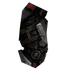
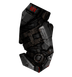
大腿按图加宽(33→36)/真踝关节:靴子独立foot部件+脚掌压平逻辑(站0.9走随摆蹲前脚全平)/跪姿v4紧凑版(前腿水平膝+脚平踩身下,后膝近地靴尖点地)/髋距±5.5贴近原图

diff --git a/src/entities/CharacterRig.js b/src/entities/CharacterRig.js
@@ -78,11 +78,11 @@ export class CharacterRig {
     //   走出±28px 的水平跨步——腿始终是弯的下蹲形态,但脚是前后迈而非上下抖。
     if (cr > 0) {
       const mb = Math.min(1, gait * 1.3)
-      this._crouchDrop = 25 // 蹲行与跪姿同一低度(母本v3:髋高47-25=22≈大腿19.5,后膝可触地)
+      this._crouchDrop = 22 // 跪蹲低度(髋高47-22=25;前膝不过肩、后膝近地)
       this._crouchPitch = L(10, 16, mb)
       // 跪姿(静止):真军姿单膝跪=前膝抬高(高于髋,大腿-108°)、小腿完全垂直(sF=108→总角0°)、脚掌平踩,
       // 后膝触地小腿后折——素体腿长(21.5/28.5)下几何恰好闭合
-      let tF = -108, sF = 83, tB = 10, sB = 80
+      let tF = -90, sF = 130, tB = 15, sB = 90
       if (mb > 0.01) {
         // 低位潜行(双骨 IK):双脚钉住地面沿水平 ±24px 往返(迈步腿微抬 5px),
         // 由 IK 反解大小腿角——前伸腿伸展、收回腿深折于臀下,腿形反差即"蹲着走"
@@ -104,6 +104,15 @@ export class CharacterRig {
     P.thigh_b.localAngle = thighB
     P.shin_f.localAngle = shinF
     P.shin_b.localAngle = shinB
+    if (P.foot_f) {
+      // 脚掌压平系数:站立0.9(原图靴子平踩)/走路随摆一半/蹲姿前脚全平、后脚随小腿折起
+      const torsoPitch = this.lean + cr * (this._crouchPitch ?? 10) * DEG
+      const flatWalk = 0.9 - gait * 0.45
+      const fF = L(flatWalk, 1, cr)
+      const fB = L(flatWalk, 0.15, cr)
+      P.foot_f.localAngle = -(torsoPitch + thighF + shinF) * fF
+      P.foot_b.localAngle = -(torsoPitch + thighB + shinB) * fB
+    }
     if (P.arm_back && !P.arm_back.def.aim) {
       P.arm_back.localAngle = 55 * DEG + Math.sin(ph + Math.PI) * 14 * DEG * gait * (1 - cr * 0.7)
     }

diff --git a/src/scenes/BootScene.js b/src/scenes/BootScene.js
@@ -2,7 +2,7 @@ import Phaser from 'phaser'
 
 const IMAGES = [
   'player_head', 'player_torso', 'player_arm_upper', 'player_armgun', 'player_pauldron',
-  'player_thigh_f', 'player_shin_f', 'player_thigh_b', 'player_shin_b',
+  'player_thigh_f', 'player_shin_f', 'player_foot_f', 'player_thigh_b', 'player_shin_b', 'player_foot_b',
   'robot_head', 'robot_torso', 'robot_arm_aim', 'robot_arm_back', 'robot_thigh', 'robot_shin',
   'wall_tile',
 ]

diff --git a/docs/开发日志.md b/docs/开发日志.md
@@ -2,6 +2,13 @@
 
 > 倒序:最新的在上面。每次工作会话记一条:做了什么、验证结果、遗留问题。
 
+## 2026-07-14 · 续4(本会话收尾):大腿加宽/踝关节+脚掌水平/跪姿v4紧凑版
+- **大腿加宽**:切件多边形按图放到全轮廓(1x 33→36 宽),小腿维持(用户认可);髋距放宽到 ±5.5([36.5,55]/[25.5,55]),髋部连接观感贴近原图。
+- **真踝关节(重要架构升级)**:靴子从小腿贴图拆出为独立 foot_f/foot_b 部件(31×12,踝点 540,1030)。脚掌压平逻辑:foot.localAngle = −(躯干俯仰+大腿+小腿)×压平系数——站立 0.9(原图靴子就是平踩)/走路 0.9−0.45·gait(蹬地自然跟随)/蹲姿前脚 1.0 全平、后脚 0.15 随小腿折。**"脚掌朝上"类问题从机制上不可能再出现**。
+- **跪姿 v4(紧凑)**:drop 22(髋25);前腿=大腿水平(-90°)+小腿后收(+130,世界+40°)→脚掌平踩身下(靠踝关节),膝不过肩不前伸;后腿=膝近地(+15)+小腿后上折(+90)→靴子垂在膝后、靴尖点地(经典跪姿后脚)。
+- 验收(冻结帧):站姿(宽大腿/平靴/髋部连接)✓ 跪姿(紧凑/前脚平/后靴尖点地)✓ 走路中帧(脚掌半随摆自然)✓。
+- 玩家角色至此 **10 部件**:头/躯干/肩甲/大臂/小臂枪/前后大小腿/前后脚掌。
+
 ## 2026-07-14 · 续3:母本v3 全身单源定稿(用户拍板"最满意的样子")
 - 用户在 ChatGPT 生成加大版厚重装甲战士(参考12,持枪战斗姿态全身),点名"图里角色就是我最满意的样子"→ **全部 9 个部件从这一张图切**(头/躯干/肩甲/大臂/小臂枪/腿),彻底单源=厚重感/比例/风格三统一;素体母本(参考11)时期的"上下身两套设计"问题不复存在。
 - 参数(脚本自动输出):S2X 0.218(全身高918px→1x100)/髋高47/肩高68/IK(19.5,31)/跪沉25、sF83/站姿=图内实测(thighF -28/shinF 41/thighB 20补偿平地/shinB 0);两髋收窄到7px(±3.5)防大骨盆,站姿开脚由角度而非髋距实现。

diff --git a/docs/项目方向与决策.md b/docs/项目方向与决策.md
@@ -31,6 +31,10 @@
 | 2026-07-13 | 敌人失去视线后保留 1.5s 战斗记忆,且无视线不开火 | 配合掩体玩法:躲进掩体敌人不立刻脱战、也不透墙打 |
 | 2026-07-13 | **下蹲系统定稿**(七轮迭代):S 切换式;静止=单膝跪(几何解,后膝触地/前脚收膝下);移动=双骨 IK 潜行步(髋钉低位、双脚同轨道±24 对称交替、周期 112、速度 70%);蹲跳先起身 240ms 内自动离地 | 用户逐轮验收通过;关键方法论=脚要贴地的动作用 IK 反解,不用 FK 手调;步幅±24 为用户定版勿改 |
 
+| 2026-07-14 | **玩家角色美术终稿=母本v3(参考12)全身单源+10部件骨架**(含真踝关节/两段手臂/固定肩甲/头部世界空间随瞄) | 用户拍板"图里角色就是我最满意的样子";多母本拼装身材必然失调的教训 |
+| 2026-07-14 | 脚掌=独立部件+压平逻辑(站0.9/走随摆/蹲前脚全平) | 用户三轮反馈"脚掌朝上/穿地"的根治;原图靴子平踩 |
+| 2026-07-14 | 蹲行腿摆 crouchCycleLen 136(慢21%),移速不变 | 用户拍板 |
+
 ## 二点五、设计后备清单(用户已提出,待排期实现)
 - **AI 难度分级**(用户 2026-07-13 提出):简单模式=人机不蹲掩体、不躲子弹;困难模式=会下蹲躲掩体、有意识躲子弹。实现建议:enemies.json 按难度挂 aiProfile(useCover/dodgeAwareness 等开关),M3 做难度系统时落地。
 - **美术精细化 pass**(标杆=docs/风格参考/参考7-精细度标杆.png):板甲分件细节、面板线、双色阶阴影、装备挂件(背包/红十字/能量灯)、精细枪模(导轨/弹匣/握把分明)、开枪等特效精修。路径:SVG 部件做"细节强化版 v2"(参考图完全可用矢量复刻:平涂+阴影带+线细节),必要时结合同风格素材参考与 AI 生成的概念参考。排期:M2 开头做玩家+机器人 v2,后续每类新敌人按此标准。
